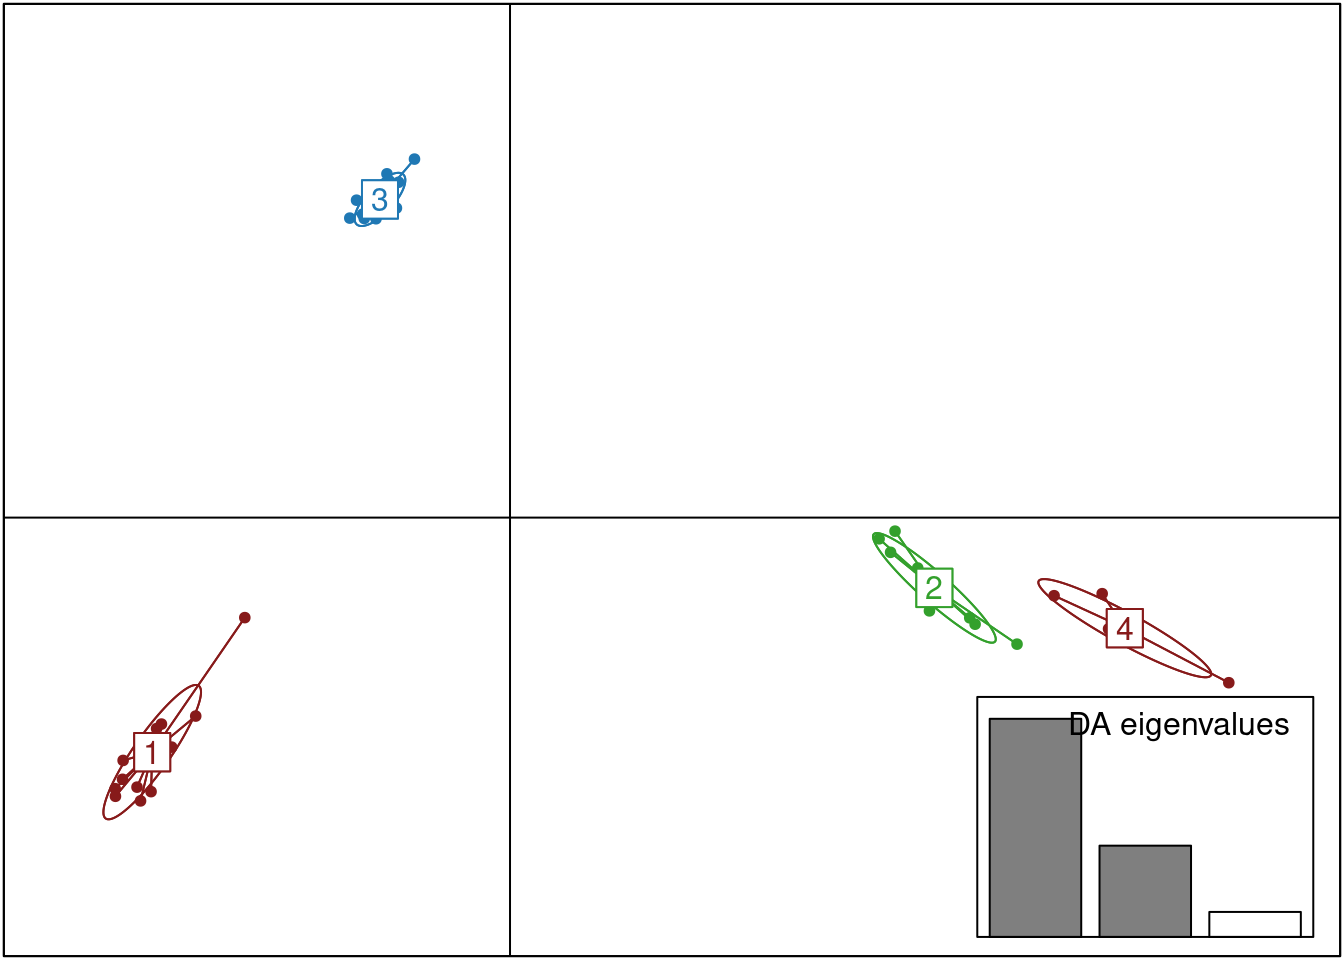
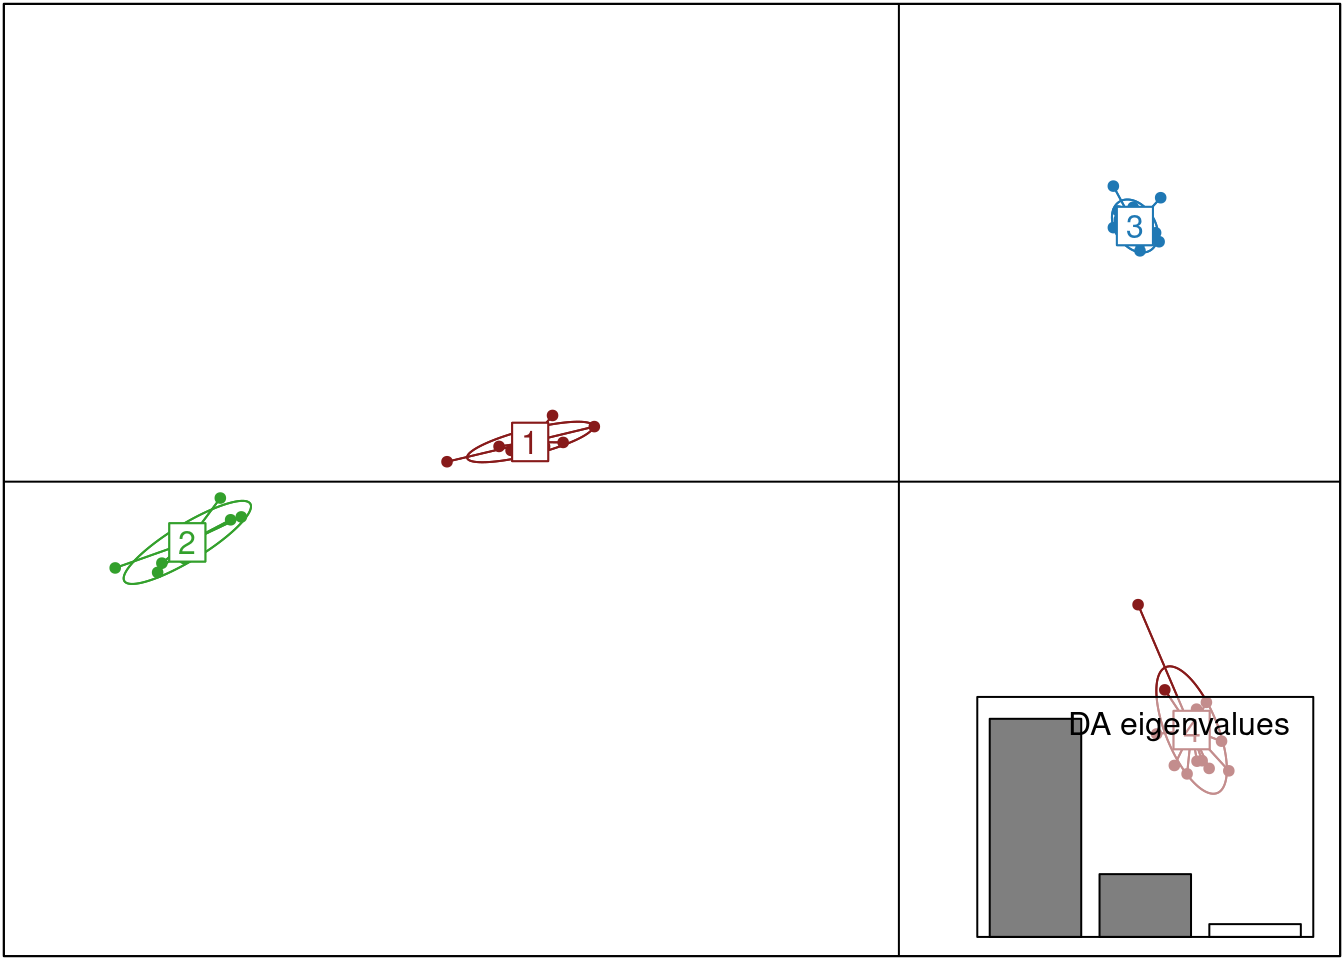
Built site for gh-pages

diff --git a/content/Participants.html b/content/Participants.html
@@ -357,6 +357,16 @@ gtag('config', 'G-M3GR4KXEG6', { 'anonymize_ip': true});
 <td>USDA ARS</td>
 </tr>
 <tr class="even">
+<td>Angel</td>
+<td>Carasaquillo</td>
+<td>University of Rhode Island</td>
+</tr>
+<tr class="odd">
+<td>Julia</td>
+<td>McDonough</td>
+<td>University of Massachusetts Lowell</td>
+</tr>
+<tr class="even">
 <td>Jon</td>
 <td>Puritz</td>
 <td>University of Rhode Island</td>

diff --git a/content/PCA.html b/content/PCA.html
@@ -553,8 +553,8 @@ All variants processed</code></pre>
 <pre><code>      
         1  2  3  4
   PopB  0  0 15  0
-  PopA 15  0  0  0
-  PopC  0 10  0  5</code></pre>
+  PopA  0  0  0 15
+  PopC  8  7  0  0</code></pre>
 </div>
 </div>
 <p>This makes sense given our PCA. Let’s run the DAPC.</p>
